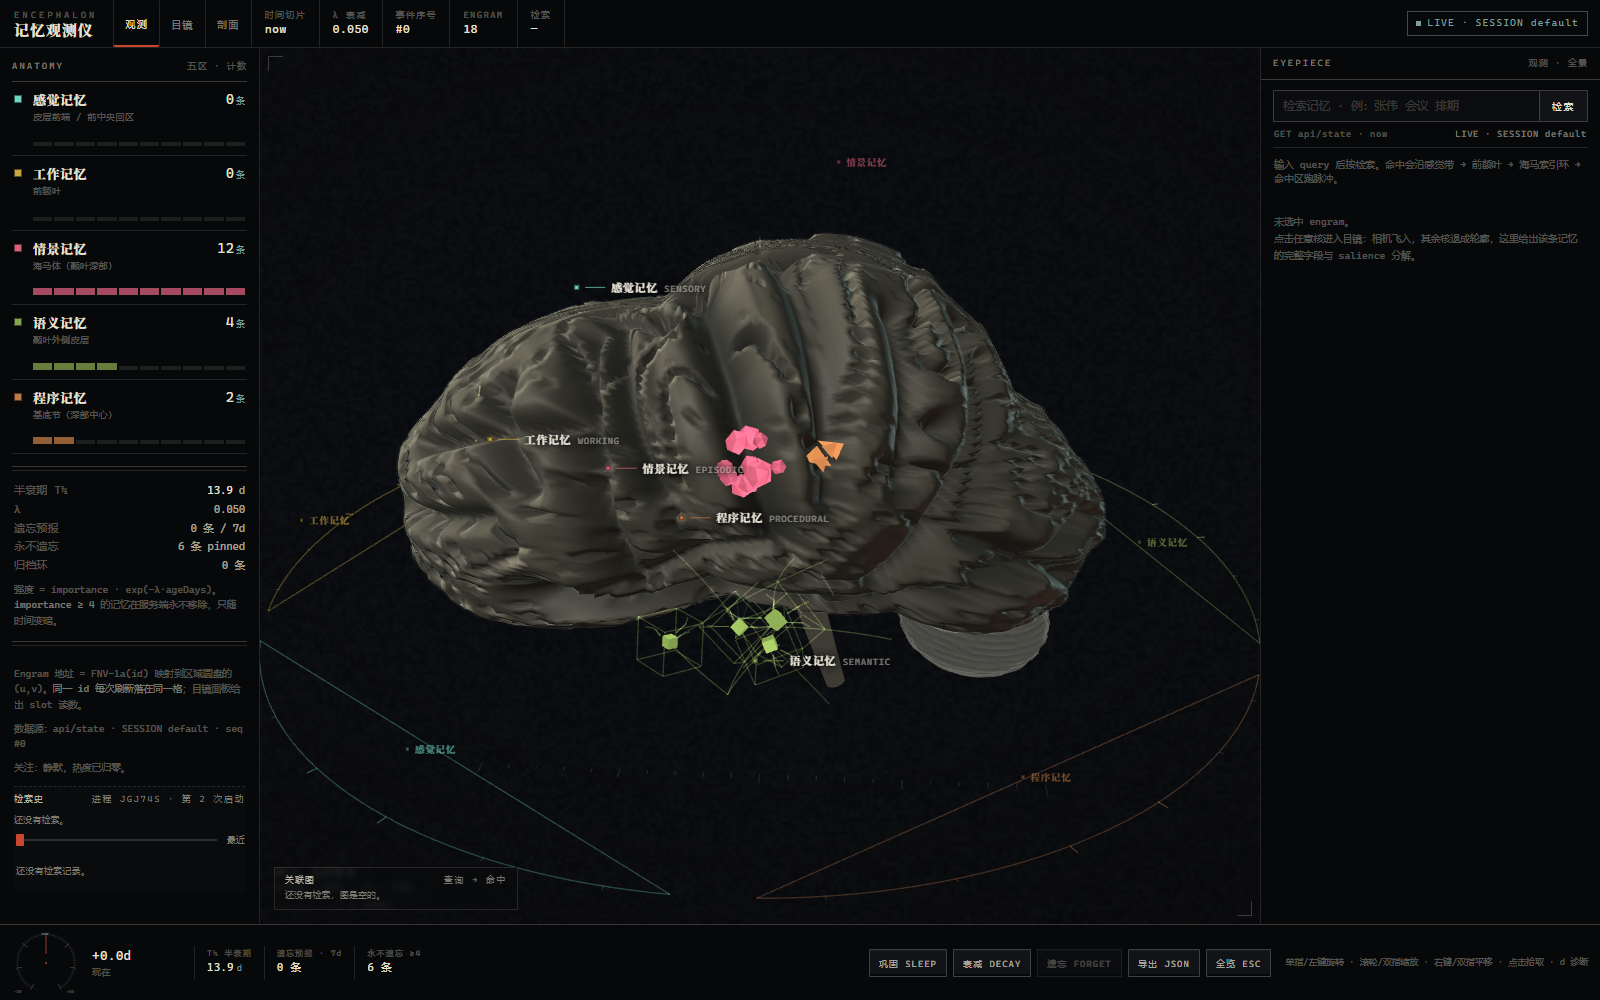
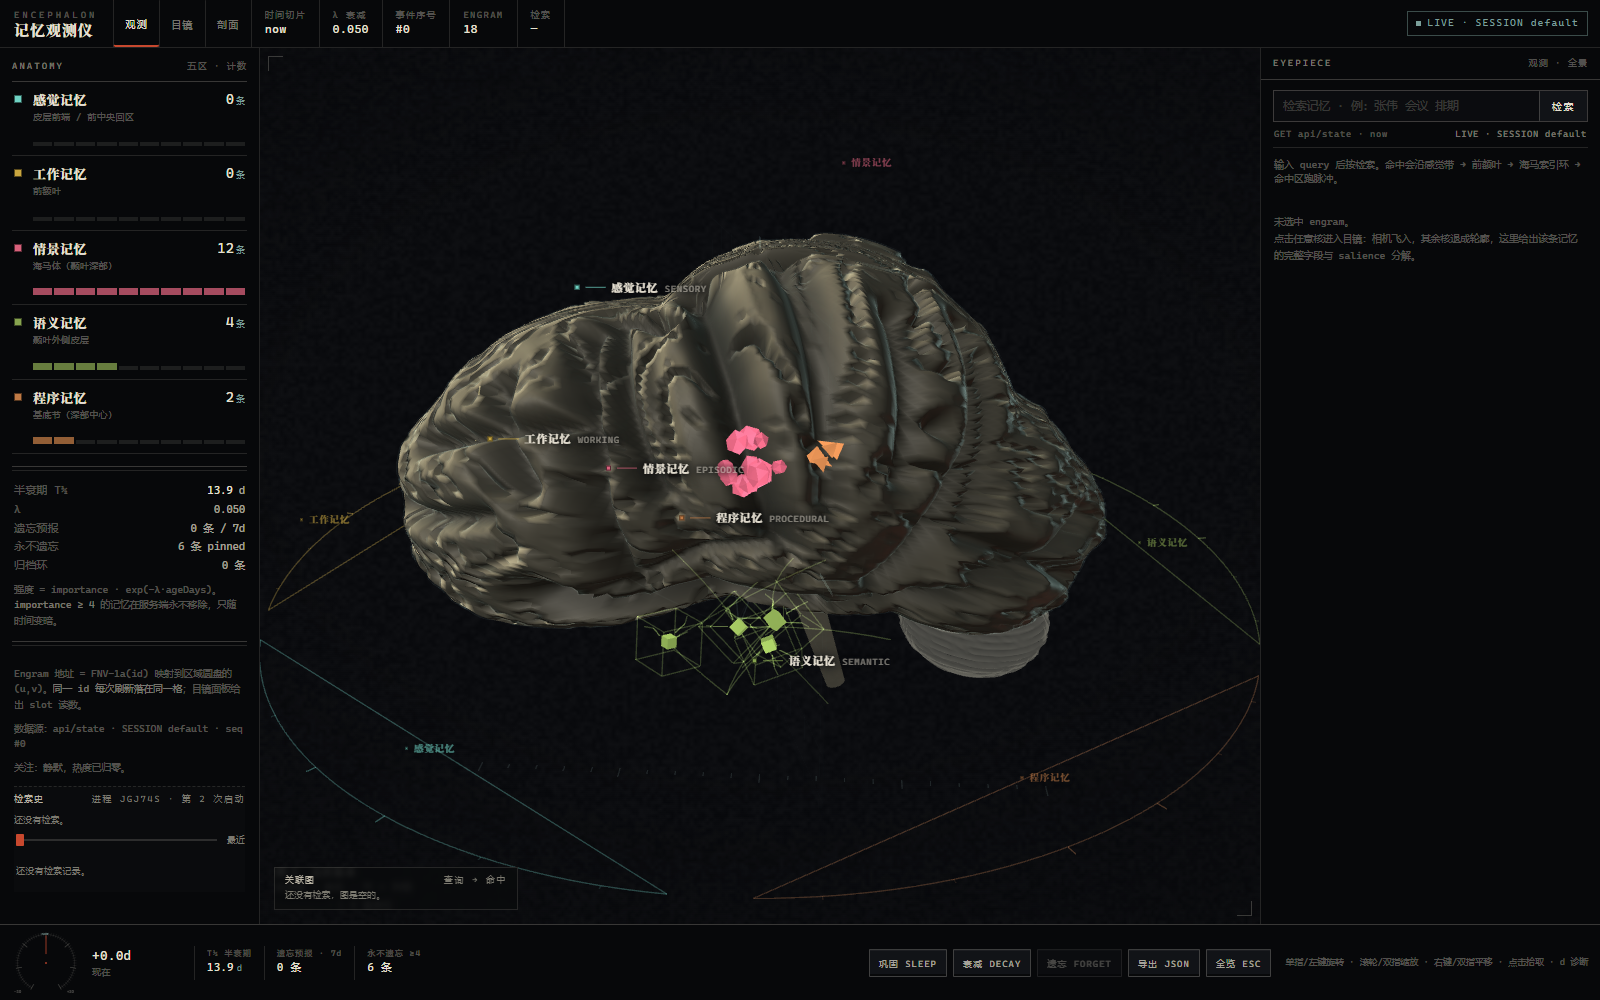
feat(3d): 回冠高光（顶点色按 crown 提亮 + 暖偏移）

diff --git a/dist/deepseek-brain-3d.html b/dist/deepseek-brain-3d.html
@@ -1205,10 +1205,14 @@ globalThis.THREE=Object.freeze({ACESFilmicToneMapping:nt,AddEquation:M,AddOperat
       var fil = Math.max(0, nx * R.x + ny * R.y + nz * R.z);
       var crest = 0.30 + 0.70 * bumpArr[j];
       var ao = 1 - 0.94 * sulArr[j];
-      var t2 = clamp(0.010 + (0.50 * Math.pow(lam, 2.2) + 0.12 * fil) * crest * ao, 0, 0.80);
+      /* 脑回顶的一线高光：只给「不在沟里 + 正对主光 + 隆起」的顶点加，
+         所以亮的是回冠，不是整片 cortex。 */
+      var crownD = clamp(1 - 2.2 * sulArr[j], 0, 1);
+      var crown = Math.pow(crownD, 1.5) * Math.pow(lam, 2.4) * (0.55 + 0.45 * bumpArr[j]);
+      var t2 = clamp(0.010 + (0.50 * Math.pow(lam, 2.2) + 0.12 * fil) * crest * ao + 0.34 * crown, 0, 0.92);
       c.copy(COL_DEEP).lerp(COL_BONE, t2);
       /* shadows read cool, crests read warm bone — the specimen is not neutral grey */
-      var warm = 0.10 * t2;
+      var warm = 0.10 * t2 + 0.18 * crown;
       c.r = clamp(c.r + warm * 0.55, 0, 1);
       c.g = clamp(c.g + warm * 0.30, 0, 1);
       c.b = clamp(c.b - warm * 0.18, 0, 1);

diff --git a/web/brain-3d.html b/web/brain-3d.html
@@ -1193,10 +1193,14 @@
       var fil = Math.max(0, nx * R.x + ny * R.y + nz * R.z);
       var crest = 0.30 + 0.70 * bumpArr[j];
       var ao = 1 - 0.94 * sulArr[j];
-      var t2 = clamp(0.010 + (0.50 * Math.pow(lam, 2.2) + 0.12 * fil) * crest * ao, 0, 0.80);
+      /* 脑回顶的一线高光：只给「不在沟里 + 正对主光 + 隆起」的顶点加，
+         所以亮的是回冠，不是整片 cortex。 */
+      var crownD = clamp(1 - 2.2 * sulArr[j], 0, 1);
+      var crown = Math.pow(crownD, 1.5) * Math.pow(lam, 2.4) * (0.55 + 0.45 * bumpArr[j]);
+      var t2 = clamp(0.010 + (0.50 * Math.pow(lam, 2.2) + 0.12 * fil) * crest * ao + 0.34 * crown, 0, 0.92);
       c.copy(COL_DEEP).lerp(COL_BONE, t2);
       /* shadows read cool, crests read warm bone — the specimen is not neutral grey */
-      var warm = 0.10 * t2;
+      var warm = 0.10 * t2 + 0.18 * crown;
       c.r = clamp(c.r + warm * 0.55, 0, 1);
       c.g = clamp(c.g + warm * 0.30, 0, 1);
       c.b = clamp(c.b - warm * 0.18, 0, 1);

diff --git a/README.md b/README.md
@@ -392,6 +392,7 @@ node tools/build-3d.mjs      # 生成 dist/deepseek-brain-3d.html
 - 半球细分 `seg: [224, 168]`（低画质 `[104, 80]`），约 10 万顶点/半球；加载时一次性算完位移与顶点色，桌面端 `DOMContentLoaded ≈ 1.2 s`。
 - 颅顶弧线单列一条：`y -= 0.125 * smoothstep(0.18, 0.98, |pz|) * lobe`，中段最高、额极与枕极一起下沉；同时 `x *= 1 - 0.13*smoothstep(0.34,1.0,|pz|)` 让极部收窄，从上方看是卵形而不是跑道形。
 - 小脑是两半球 + 蚓部三个网格（共用一份叶片条纹几何），脑干与桥脑独立。
+- 回冠高光：顶点色里给「不在沟里 + 正对主光 + 隆起」的顶点加 `0.34·crown`  （`crown = (1−2.2·sul)^1.5 · lam^2.4 · (0.55+0.45·bump)`），暖色偏移也跟着它走——  远看时脑回顶有一道细亮边、沟底仍是墨色，整体不再像蜡模。
 - 皮层用 `MeshStandardMaterial` 承接真实定向光（key/fill/rim 三灯 + 半球光），顶点色承载沟回的「沟底变暗」；engram 用 `depthTest:false` 的 X 光叠加，所以能隔着皮质看到深部结构——这是仪器语义，不是穿模。
 - 剖面切面是**解析式着色器**：`vUv` 上算灰质带（`smoothstep(rim-0.19, rim-0.05, r)`）、皮质-白质交界亮线、胼胝体弧、穹窿、侧脑室、基底节，再叠一层 hash 颗粒与沿灰质带的沟刻痕；不经过纹理，所以没有色彩空间损耗。
 - 检索束是**屏幕空间加粗管线**：每段生成 6 个顶点（两个三角形），顶点着色器把端点投到 clip space、按屏幕法向撑开 `aWidth` 像素，宽度沿尾迹衰减；单 `Mesh` + 动态缓冲，`depthTest:false`，能透过皮质看到整条束。
